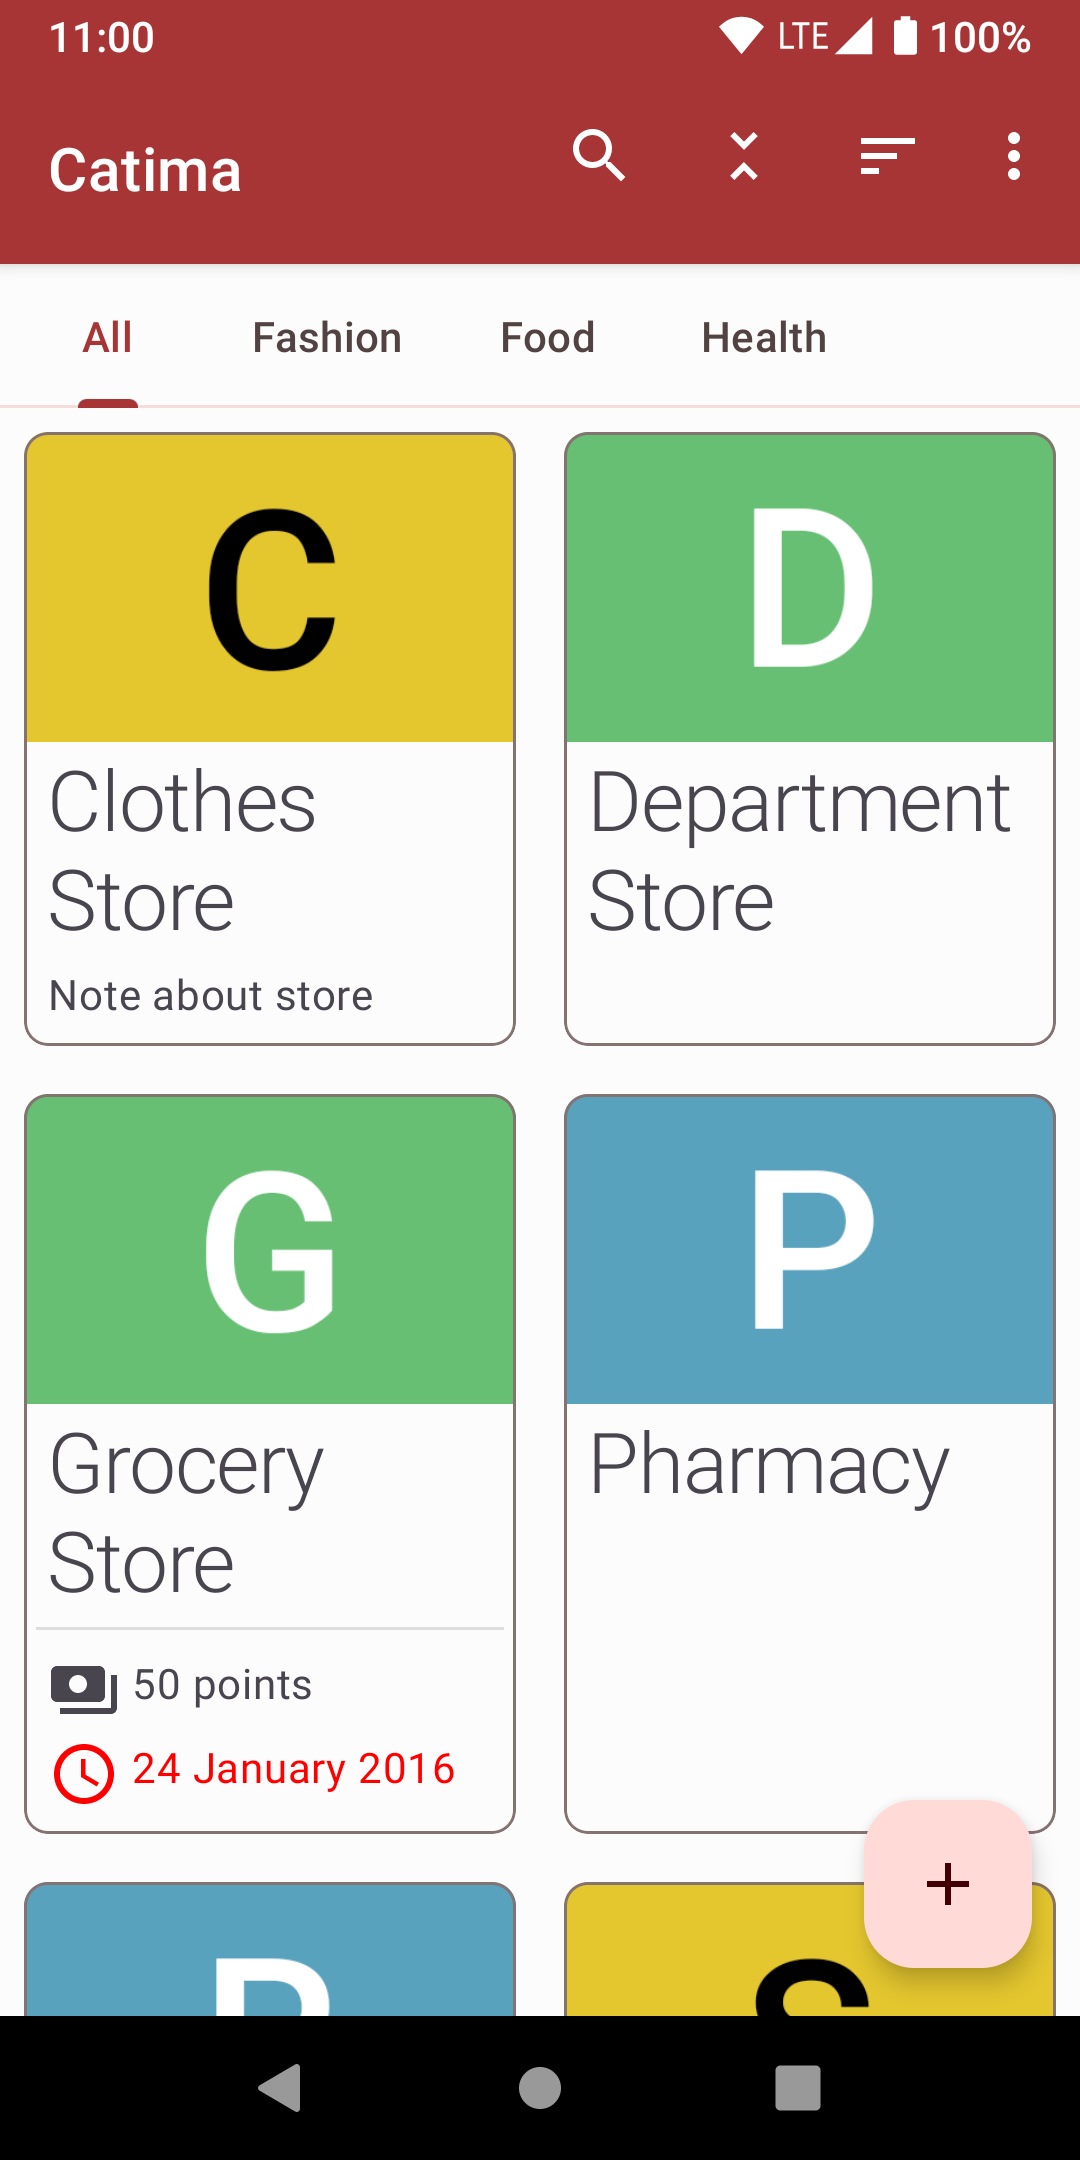
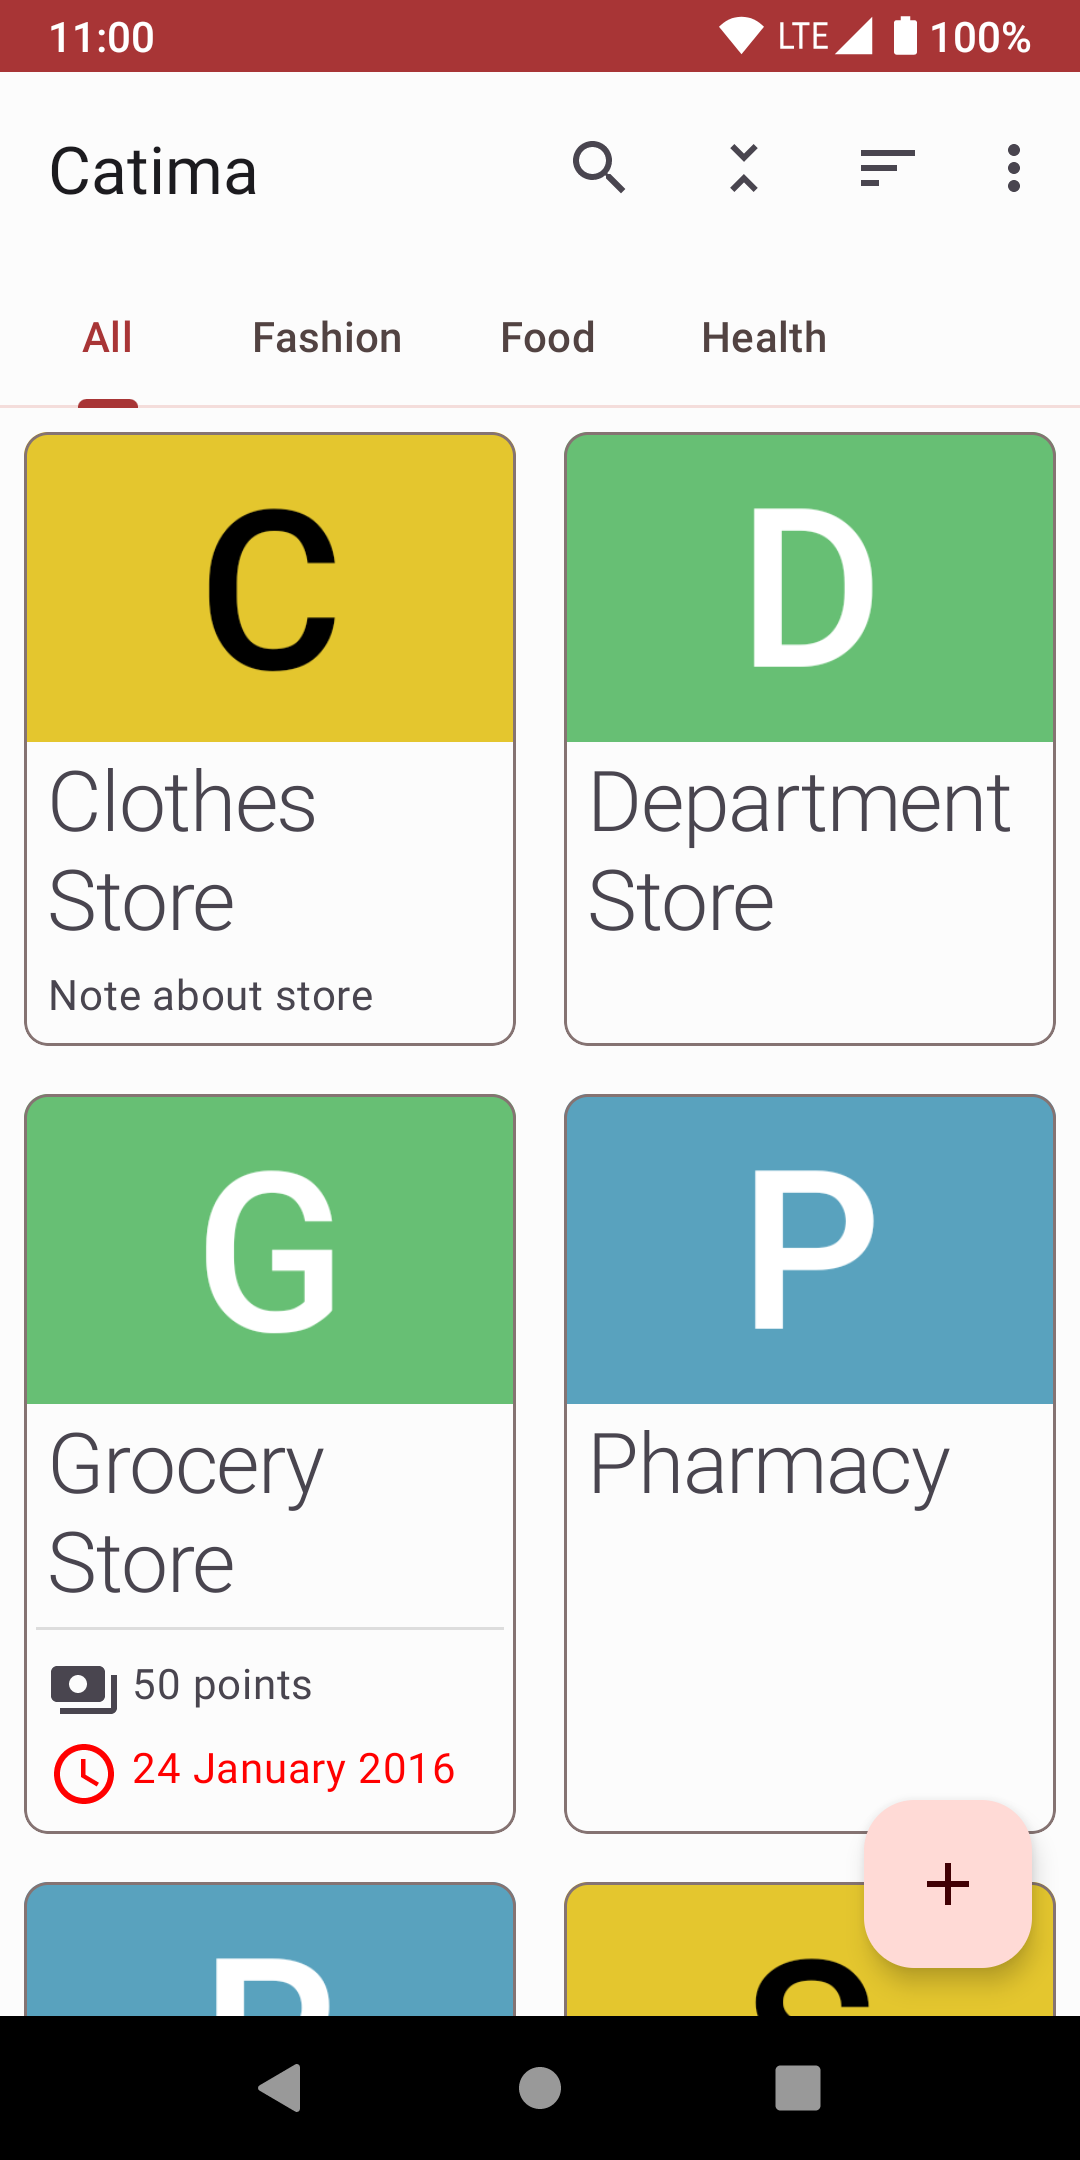
Various theming fixes

Changed region(s): [[0.0, 0.031, 1.0, 0.1241]]

diff --git a/app/src/main/java/protect/card_locker/MainActivity.java b/app/src/main/java/protect/card_locker/MainActivity.java
@@ -367,7 +367,7 @@ public class MainActivity extends CatimaAppCompatActivity implements LoyaltyCard
         View folder = findViewById(R.id.action_unfold);
         View sort = findViewById(R.id.action_sort);
 
-        if (search != null) {
+        if (search != null && mSearchView.isIconified()) {
             search.setVisibility(shouldShow ? View.VISIBLE : View.GONE);
         }
         if (folder != null) {

diff --git a/app/src/main/java/protect/card_locker/LoyaltyCardLockerApplication.java b/app/src/main/java/protect/card_locker/LoyaltyCardLockerApplication.java
@@ -16,5 +16,6 @@ public class LoyaltyCardLockerApplication extends Application {
 
         Settings settings = new Settings(this);
         AppCompatDelegate.setDefaultNightMode(settings.getTheme());
+        DynamicColors.applyToActivitiesIfAvailable(this);
     }
 }

diff --git a/CHANGELOG.md b/CHANGELOG.md
@@ -3,6 +3,7 @@
 ## Unreleased - 100
 
 - Hide search, expand and sort icons until there is at least 1 card
+- Various theming fixes
 
 ## v2.14.0 - 99 (2022-01-14)
 
